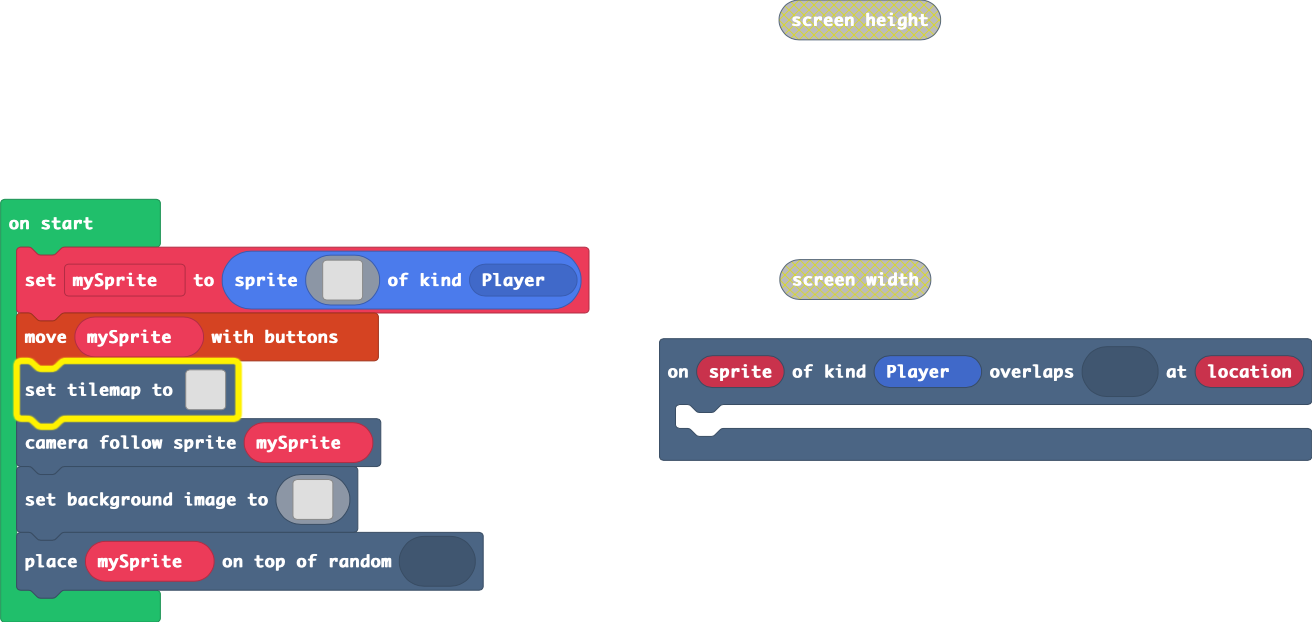
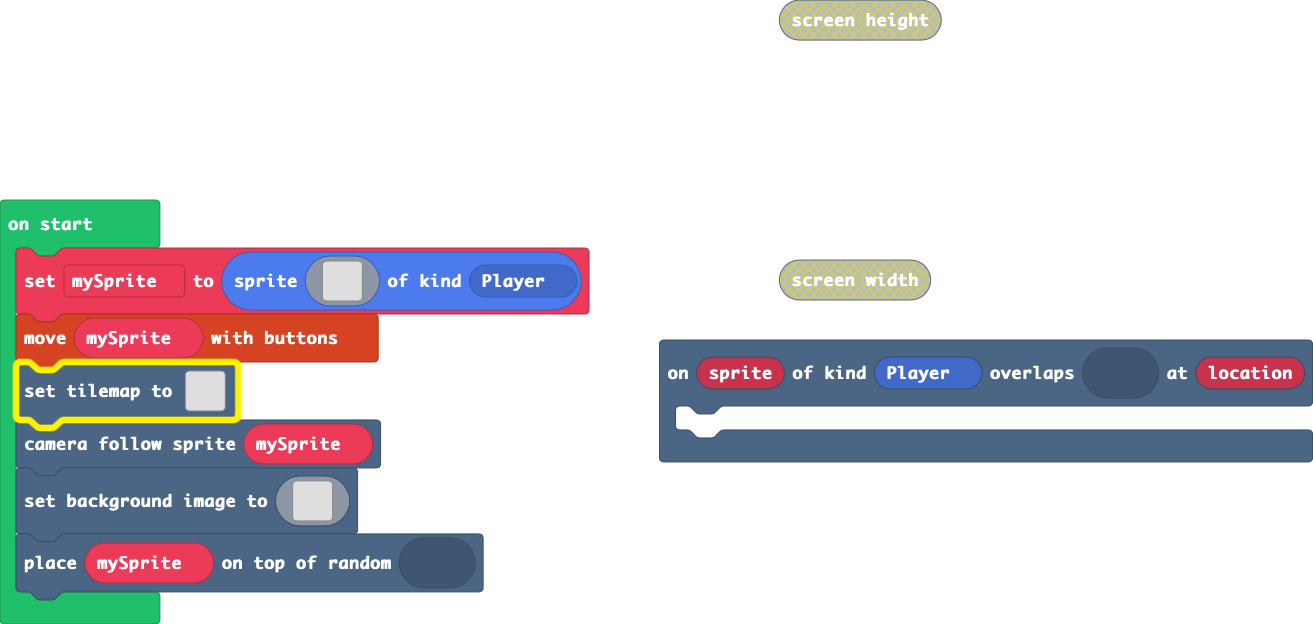
cannot walk through walls anymore

diff --git a/images.g.ts b/images.g.ts
@@ -1,4 +1,9 @@
-<xml xmlns="https://developers.google.com/blockly/xml"><variables><variable id="y^*hP:f^c*@dlCV27,Fv">mySprite</variable><variable type="KIND_SpriteKind" id="$u7jCJ@PP5F_Ee]0k6]h">Player</variable><variable type="KIND_SpriteKind" id="Lo)99|HkMz#xw}vC;@^9">Projectile</variable><variable type="KIND_SpriteKind" id="UPS0yX6u}AKtO%a*j_;q">Food</variable><variable type="KIND_SpriteKind" id="4[N1oAEs$1?J0{j*w8A,">Enemy</variable></variables><block type="scenescreenheight" id="Tprd2=C9g%hpk1n`*mR:" disabled="true" x="780" y="-200"/><block type="pxt-on-start" id="z)aDNP4zI!.oPGi?k_4;" x="0" y="0"><statement name="HANDLER"><block type="variables_set" id="aU_vPX1uf6`Lp87{{]]Y"><field name="VAR" id="y^*hP:f^c*@dlCV27,Fv">mySprite</field><value name="VALUE"><shadow xmlns="http://www.w3.org/1999/xhtml" type="math_number"><field name="NUM">0</field></shadow><block type="spritescreate" id="x:QqTT,y:q.[WYYzi]w7"><value name="img"><shadow type="screen_image_picker" id="mRYpF~!0BN)+Hry`waXX"><field name="img">img`
+// Auto-generated code. Do not edit.
+namespace myImages {
+
+    helpers._registerFactory("image", function(name: string) {
+        switch(helpers.stringTrim(name)) {
+            case "image1":return img`
 . . . . . . . . . . . . . . . . 
 . . . . . . . . . . . . . . . . 
 . . . . 8 8 8 8 8 8 8 8 . . . . 
@@ -15,7 +20,8 @@
 . . . . . 8 8 8 8 8 8 . . . . . 
 . . . . . . . . . . . . . . . . 
 . . . . . . . . . . . . . . . . 
-`</field><data>{"commentRefs":[],"fieldData":{"img":"myImages.image1"}}</data></shadow></value><value name="kind"><shadow type="spritekind" id="RvSAqF_+J]|qaj9SwegO"><field name="MEMBER">Player</field></shadow></value></block></value><next><block type="game_control_sprite" id="wGQk-#6~Kw4=`KOF4#*#"><mutation xmlns="http://www.w3.org/1999/xhtml" _expanded="0" _input_init="false"></mutation><value name="sprite"><block type="variables_get" id="6e+u9PIMLrUv}o:uYBe?"><field name="VAR" id="y^*hP:f^c*@dlCV27,Fv">mySprite</field></block></value><next><block type="tilemap_editor" id="5dxQ!NwAFl|WqGJKBRRi"><field name="tilemap">tilemap`level1`</field><data>{"commentRefs":[],"fieldData":{"tilemap":"level1"}}</data><next><block type="camerafollow" id="blX}!W[49hlF16i@eA:1"><value name="sprite"><block type="variables_get" id="meb8%]K7:RkhllIvcs48"><field name="VAR" id="y^*hP:f^c*@dlCV27,Fv">mySprite</field></block></value><next><block type="gamesetbackgroundimage" id="~ALuQb{|)10:^%Vb6k{v"><value name="img"><shadow type="background_image_picker" id="d)5Kf!k^ebppa3L-?,PE"><field name="img">img`
+`;
+            case "image2":return img`
 ffffffffffffffffffffffffffffffffffffffffffffffffffffffffffffffffffffffffffffffffffffffffffffffffffffffffffffffffffffffffffffffffffffffffffffffffffffffffffffffff
 ffffffffffffffffffffffffffffffffffffffffffffffffffffffffffffffffffffffffffffffffffffffffffffffffffffffffffffffffffffffffffffffffffffffffffffffffffffffffffffffff
 ffffffffffffffffffffffffffffffffffffffffffffffffffffffffffffffffffffffffffffffffffffffffffffffffffffffffffffffffffffffffffffffffffffffffffffffffffffffffffffffff
@@ -136,4 +142,17 @@ ffffffffffffffffffffffffffffffffffffffffffffffffffffffffffffffffffffffffffffffff
 ffffffffffffffffffffffffffffffffffffffffffffffffffffffffffffffffffffffffffffffffffffffffffffffffffffffffffffffffffffffffffffffffffffffffffffffffffffffffffffffff
 ffffffffffffffffffffffffffffffffffffffffffffffffffffffffffffffffffffffffffffffffffffffffffffffffffffffffffffffffffffffffffffffffffffffffffffffffffffffffffffffff
 ffffffffffffffffffffffffffffffffffffffffffffffffffffffffffffffffffffffffffffffffffffffffffffffffffffffffffffffffffffffffffffffffffffffffffffffffffffffffffffffff
-`</field><data>{"commentRefs":[],"fieldData":{"img":"myImages.image2"}}</data></shadow></value><next><block type="mapplaceonrandomtile" id="QZAAmg4uv`hBlBs$gPfw"><value name="sprite"><block type="variables_get" id=";X0wsYDNdMP*S~+L/w@E"><field name="VAR" id="y^*hP:f^c*@dlCV27,Fv">mySprite</field></block></value><value name="tile"><shadow type="tileset_tile_picker" id="p}gsqCz^PtMALHiwSW)7"><field name="tile">sprites.dungeon.chestClosed</field></shadow></value></block></next></block></next></block></next></block></next></block></next></block></statement></block><block type="scenescreenwidth" id="vIZROsc`#/:|}h^[6%mw" disabled="true" x="780" y="60"/><block type="spriteshittile" id="-`V)=G:AJi`;23hDQ$D." x="660" y="140"><value name="HANDLER_DRAG_PARAM_sprite"><shadow type="argument_reporter_custom" id="4c;)):A0QVA6Vbm=`#HF"><mutation typename="Sprite"/><field name="VALUE">sprite</field></shadow></value><value name="kind"><shadow type="spritekind" id="F;`j)a{Or+({eOoXQ({a"><field name="MEMBER">Player</field></shadow></value><value name="tile"><shadow type="tileset_tile_picker" id="hIAeK^HbZKW5T:2Zb!OU"><field name="tile">assets.tile`transparency16`</field></shadow></value><value name="HANDLER_DRAG_PARAM_location"><shadow type="argument_reporter_custom" id="C`.@2vkmEU3gt`YSZ3j^"><mutation typename="tiles.Location"/><field name="VALUE">location</field></shadow></value></block></xml>
+`;
+        }
+        return null;
+    })
+
+    helpers._registerFactory("animation", function(name: string) {
+        switch(helpers.stringTrim(name)) {
+
+        }
+        return null;
+    })
+
+}
+// Auto-generated code. Do not edit.

diff --git a/tilemap.g.ts b/tilemap.g.ts
@@ -3,9 +3,10 @@ namespace myTiles {
     //% fixedInstance jres blockIdentity=images._tile
     export const transparency16 = image.ofBuffer(hex``);
 
-    helpers.registerTilemapFactory(function(name: string) {
+    helpers._registerFactory("tilemap", function(name: string) {
         switch(helpers.stringTrim(name)) {
-            case "level": return tiles.createTilemap(hex`1000100000000000000000000000000000000000000101010101010101010101010000000001010100000000000000000000010100010101000001010101010101010100000000010000010000000000000000000000000100000100000101000000010001010101000001010101010000000100000000000000000000000100010101000000000000000001010001000001010001010101010000010100010000010000000000000101000000000100000100000000000000010100000000000001000001010100000001000000000101010000000001010101010101010101000000000000000000000000000000000001010101010101010101010101010100010101`, img`
+            case "level":
+            case "level":return tiles.createTilemap(hex`1000100000000000000000000000000000000000000101010101010101010101010000000001010100000000000000000000010100010101000001010101010101010100000000010000010000000000000000000000000100000100000101000000010001010101000001010101010000000100000000000000000000000100010101000000000000000001010001000001010001010101010000010100010000010000000000000101000000000100000100000000000000010100000000000001000001010100000001000000000101010000000001010101010101010101000000000000000000000000000000000001010101010101010101010101010100010101`, img`
 . . . . . . . . . . . . . . . . 
 . . . . . . . . . . . . . . . . 
 . . . . . . . . . . . . . . . . 
@@ -22,7 +23,33 @@ namespace myTiles {
 . . . . . . . . . . . . . . . . 
 . . . . . . . . . . . . . . . . 
 . . . . . . . . . . . . . . . . 
-`, [myTiles.transparency16,sprites.dungeon.hazardLava1], TileScale.Sixteen)
+`, [myTiles.transparency16,sprites.dungeon.hazardLava1], TileScale.Sixteen);
+            case "level1":
+            case "level1":return tiles.createTilemap(hex`1000100003030303030303030303030303030303030101010101010101010101010303030301010103030303030303030303010103010101030301010101010101010103030303010303010303030303030303030303030103030103030101030303010301010101030301010101010303030103020303030303030303030103010101030203030303030301010301030301010301010101010303010103010303010303030303030101030303030103030103030303030303010103030303030301030301010103030301030303030101010303030301010101010101010101030303030303030303030303030303030301010101010101010101010101010103010101`, img`
+. . . . . . . . . . . . . . . . 
+. 2 2 2 2 2 2 2 2 2 2 2 2 . . . 
+. 2 2 2 . . . . . . . . . . 2 2 
+. 2 2 2 . . 2 2 2 2 2 2 2 2 2 . 
+. . . 2 . . 2 . . . . . . . . . 
+. . . 2 . . 2 . . 2 2 . . . 2 . 
+2 2 2 2 . . 2 2 2 2 2 . . . 2 . 
+. . . . . . . . . . 2 . 2 2 2 . 
+. . . . . . . 2 2 . 2 . . 2 2 . 
+2 2 2 2 2 . . 2 2 . 2 . . 2 . . 
+. . . . 2 2 . . . . 2 . . 2 . . 
+. . . . . 2 2 . . . . . . 2 . . 
+2 2 2 . . . 2 . . . . 2 2 2 . . 
+. . 2 2 2 2 2 2 2 2 2 2 . . . . 
+. . . . . . . . . . . . . 2 2 2 
+2 2 2 2 2 2 2 2 2 2 2 2 . 2 2 2 
+`, [myTiles.transparency16,sprites.dungeon.hazardLava1,sprites.dungeon.chestClosed,sprites.dungeon.collectibleInsignia], TileScale.Sixteen);
+        }
+        return null;
+    })
+
+    helpers._registerFactory("tile", function(name: string) {
+        switch(helpers.stringTrim(name)) {
+            case "transparency16":return transparency16;
         }
         return null;
     })

diff --git a/main.ts b/main.ts
@@ -1,4 +1,4 @@
-scene.onOverlapTile(SpriteKind.Player, myTiles.transparency16, function (sprite, location) {
+scene.onOverlapTile(SpriteKind.Player, assets.tile`transparency16`, function (sprite, location) {
 	
 })
 let mySprite = sprites.create(img`
@@ -20,24 +20,7 @@ let mySprite = sprites.create(img`
     . . . . . . . . . . . . . . . . 
     `, SpriteKind.Player)
 controller.moveSprite(mySprite)
-tiles.setTilemap(tiles.createTilemap(hex`1000100003030303030303030303030303030303030101010101010101010101010303030301010103030303030303030303010103010101030301010101010101010103030303010303010303030303030303030303030103030103030101030303010301010101030301010101010303030103020303030303030303030103010101030203030303030301010301030301010301010101010303010103010303010303030303030101030303030103030103030303030303010103030303030301030301010103030301030303030101010303030301010101010101010101030303030303030303030303030303030301010101010101010101010101010103010101`, img`
-    . . . . . . . . . . . . . . . . 
-    . . . . . . . . . . . . . . . . 
-    . . . . . . . . . . . . . . . . 
-    . . . . . . . . . . . . . . . . 
-    . . . . . . . . . . . . . . . . 
-    . . . . . . . . . . . . . . . . 
-    . . . . . . . . . . . . . . . . 
-    . . . . . . . . . . . . . . . . 
-    . . . . . . . . . . . . . . . . 
-    . . . . . . . . . . . . . . . . 
-    . . . . . . . . . . . . . . . . 
-    . . . . . . . . . . . . . . . . 
-    . . . . . . . . . . . . . . . . 
-    . . . . . . . . . . . . . . . . 
-    . . . . . . . . . . . . . . . . 
-    . . . . . . . . . . . . . . . . 
-    `, [myTiles.transparency16,sprites.dungeon.hazardLava1,sprites.dungeon.chestClosed,sprites.dungeon.collectibleInsignia], TileScale.Sixteen))
+tiles.setTilemap(tilemap`level1`)
 scene.cameraFollowSprite(mySprite)
 scene.setBackgroundImage(img`
     ffffffffffffffffffffffffffffffffffffffffffffffffffffffffffffffffffffffffffffffffffffffffffffffffffffffffffffffffffffffffffffffffffffffffffffffffffffffffffffffff
